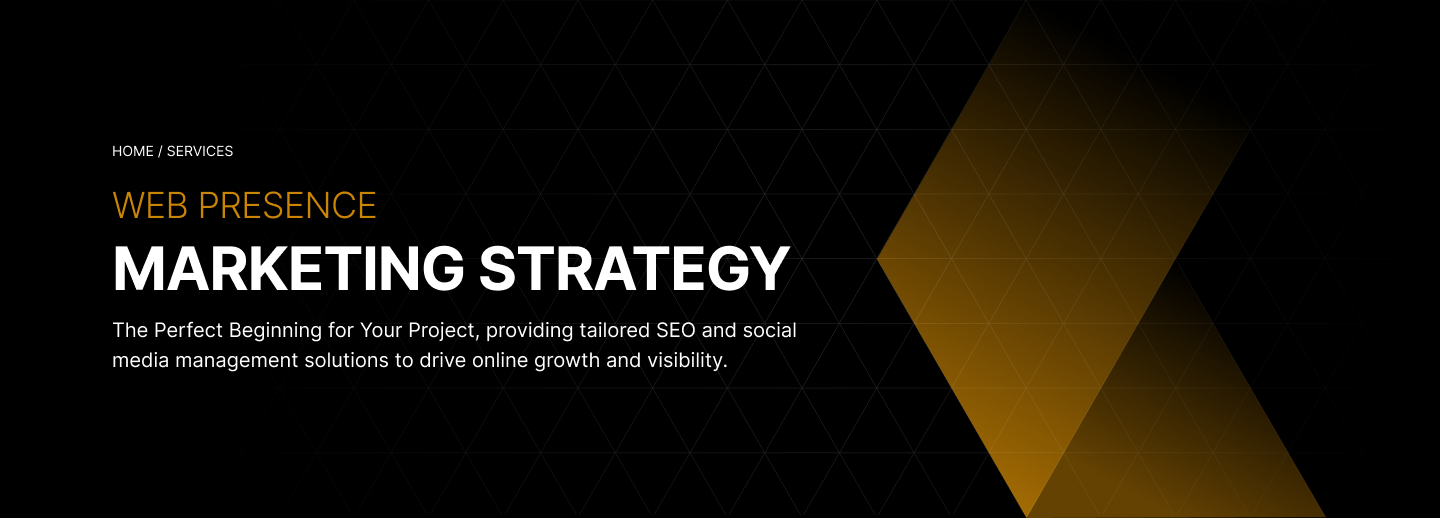
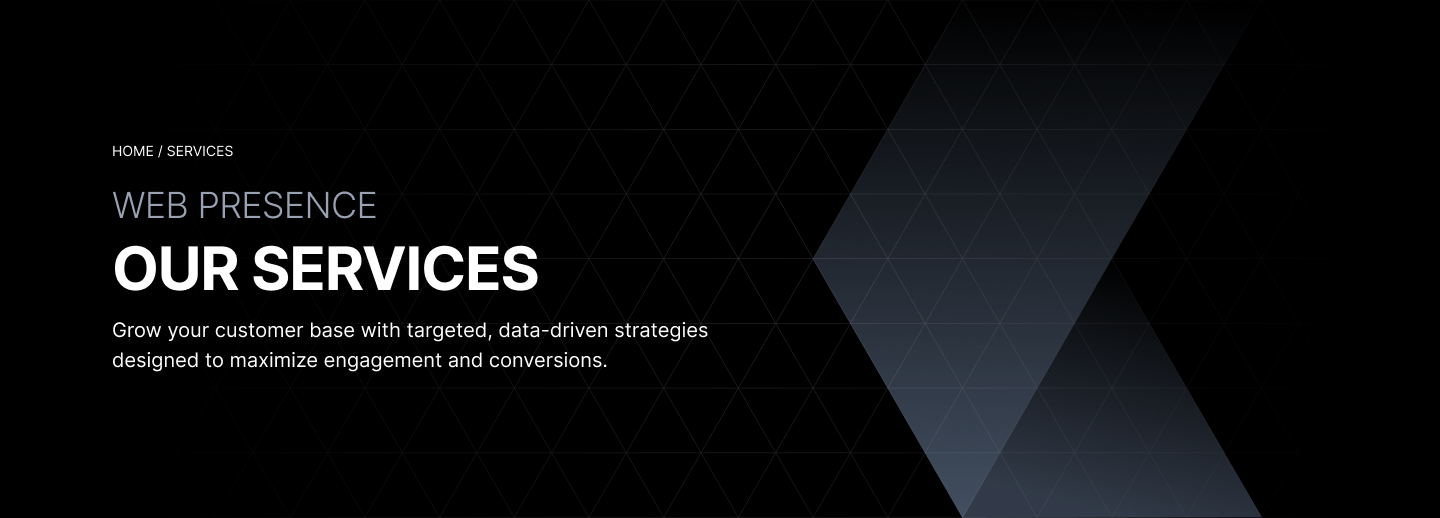
commit : service_hero change style

diff --git a/wp-content/themes/threeSixty_theme/front-end/src/blocks/service_hero/style.scss b/wp-content/themes/threeSixty_theme/front-end/src/blocks/service_hero/style.scss
@@ -24,5 +24,10 @@
     @include large-screen {
       max-width: 701px;
     }
+    .title {
+      p {
+        font-weight: 300;
+      }
+    }
   }
 }

diff --git a/wp-content/themes/threeSixty_theme/blocks/service_hero/index.php b/wp-content/themes/threeSixty_theme/blocks/service_hero/index.php
@@ -36,11 +36,9 @@ $description = get_field('description');
       <?php if (function_exists('threeSixty_theme_breadcrumbs')) {
         threeSixty_theme_breadcrumbs();
       } ?>
-      <div class="sub-title-and-title">
         <?php if ($title) { ?>
-          <div class="d-md-h4 fw-300 sub-title uppercase-text"><?= $title ?></div>
+          <div class="d-md-h4 title uppercase-text"><?= $title ?></div>
         <?php } ?>
-      </div>
       <?php if ($description) { ?>
         <div class="description text-xl white-color regular"><?= $description ?></div>
       <?php } ?>
